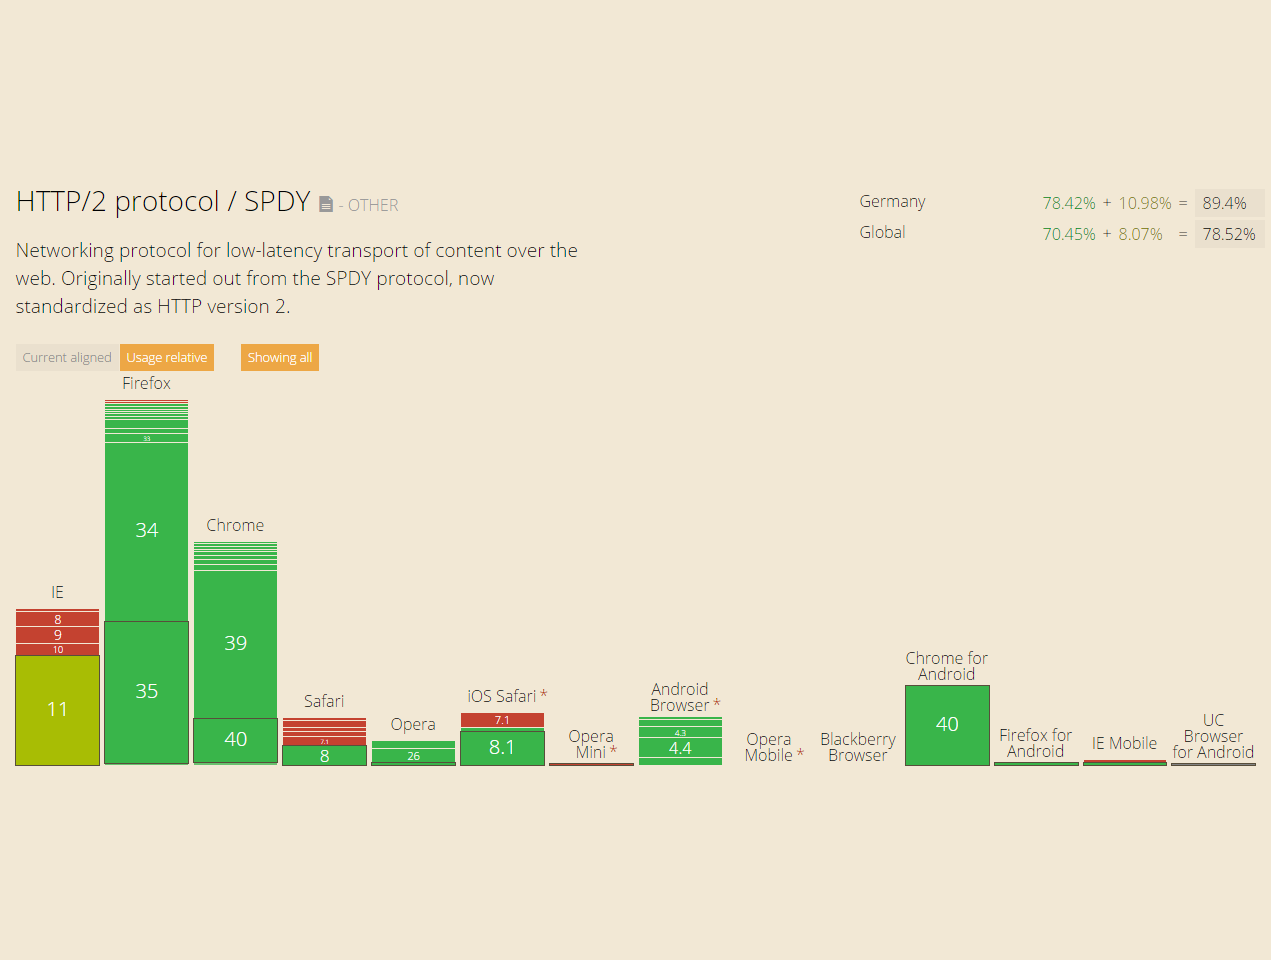
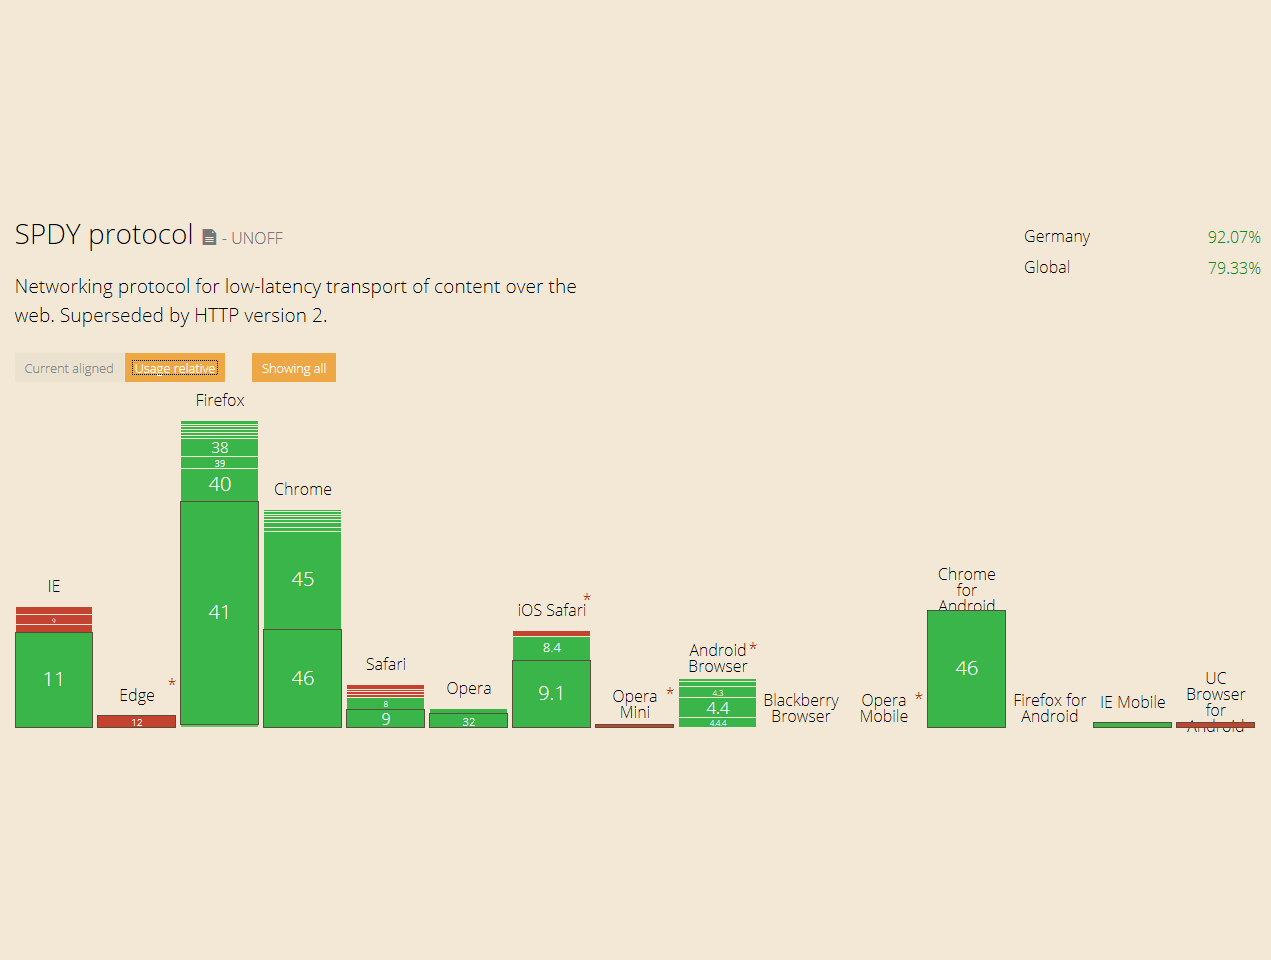
- Updated facts

diff --git a/css/extra-styles.css b/css/extra-styles.css
@@ -27,7 +27,8 @@ html.inverted .reveal h1, html.inverted .reveal h2, html.inverted .reveal h3, ht
 }
 .reveal pre code {
   max-height: 700px;
-  filter: none;
+  -webkit-filter: none;
+          filter: none;
   text-shadow: none;
   box-shadow: inset 0 0 0 2px #666666, 0 0 4px 1px rgba(0, 0, 0, 0.5);
 }
@@ -36,7 +37,8 @@ html.faded .reveal .backgrounds {
   background-blend-mode: multiply;
 }
 html.grayscaled .reveal .backgrounds {
-  filter: greyscale(1);
+  -webkit-filter: greyscale(1);
+          filter: greyscale(1);
 }
 .reveal .right {
   margin-left: 33%;
@@ -49,7 +51,14 @@ html.grayscaled .reveal .backgrounds {
   border: none;
   background: transparent;
   box-shadow: none;
-  filter: drop-shadow(0 0 1px #cccccc) drop-shadow(0 0 10px white);
+  -webkit-filter: drop-shadow(0 0 1px #cccccc) drop-shadow(0 0 10px white);
+          filter: drop-shadow(0 0 1px #cccccc) drop-shadow(0 0 10px white);
+}
+.reveal section img[alt="PHP.RUHR 2015"],
+.reveal section video[alt="PHP.RUHR 2015"] {
+  -webkit-filter: drop-shadow(0 0 10px black);
+          filter: drop-shadow(0 0 10px black);
+  opacity: 0.75;
 }
 .reveal li {
   margin-bottom: 1rem;
@@ -102,10 +111,11 @@ html.grayscaled .reveal .backgrounds {
   quotes: "“" "”" "‘" "’";
   position: relative;
   margin-bottom: 1rem;
-  padding: 1rem;
+  padding: 1rem 1.5rem;
   background-color: rgba(0, 0, 0, 0.9);
   font-style: italic;
   text-align: left;
+  box-shadow: 0 0 4px rgba(255, 255, 255, 0.5);
 }
 .reveal blockquote > *:last-child {
   margin-bottom: 0;

diff --git a/scss/extra-styles.scss b/scss/extra-styles.scss
@@ -47,6 +47,11 @@ body {
 		background: transparent;
 		box-shadow: none;
 		filter: drop-shadow(0 0 1px #CCC) drop-shadow(0 0 10px #FFF);
+
+	  &[alt="PHP.RUHR 2015"] {
+		filter: drop-shadow(0 0 10px #000);
+		opacity: 0.75;
+	  }
 	}
 
 	li {
@@ -109,10 +114,11 @@ body {
 		quotes: "“" "”" "‘" "’";
 		position: relative;
 		margin-bottom: 1rem;
-		padding: 1rem;
+		padding: 1rem 1.5rem;
 		background-color: rgba(0,0,0,.9);
 		font-style: italic;
 		text-align: left;
+		box-shadow: 0 0 4px rgba(255,255,255,.5);
 
 		> *:last-child {
 			margin-bottom: 0;

diff --git a/Gruntfile.js b/Gruntfile.js
@@ -17,10 +17,10 @@ module.exports = function(grunt) {
         },
         autoprefixer: {
             options: {
-                browsers: ['last 2 version']
+                browsers: [ 'last 2 version', 'ie >= 10', 'Safari >= 7', 'iOS >= 7' ]
             },
             no_dest: {
-                src: 'css/extra-style.css'
+                src: 'css/extra-styles.css'
             }
         },
         watch: {

diff --git a/markdown/http2.md b/markdown/http2.md
@@ -186,7 +186,7 @@ Durch Pipelining werden Latenzen zwischen den Requests einer TCP-Verbindung nich
 ---
 <!-- .slide: data-background="images/backgrounds/website-2014.png" data-state="inverted" -->
 
-# Webseite 2014
+# Webseite heute
 ---
 <!-- .slide: data-background="images/backgrounds/website-2014.png" data-state="inverted faded" -->
 
@@ -530,7 +530,7 @@ Der Browser kann so Ressourcen mit verschiedenen Prios anfordern:
 
 ## Prioritized Streams
 
-Ebenso kann der Server Ressoucen, die er für relevant hält, mit höherer Priorität durch die Leitung drücken.
+Ebenso kann der Server Ressourcen, die er für relevant hält, mit höherer Priorität durch die Leitung drücken.
 
 <p class="fragment">Das nennt sich dann "Server Push".</p>
 ---
@@ -581,15 +581,25 @@ Upgrade: HTTP/2.0
 ```
 <p class="fragment">(Anwendungsszenario: Server-zu-Server-Kommunikation)</p>
 ---
+<!-- .slide: data-background="images/backgrounds/shutterstock_334616300.jpg" data-state="inverted faded" -->
+
 # Serverseitige Vorteile
 
 > SPDY clients consume one Apache worker instead of six
 
 [Quelle](http://www.neotys.com/blog/performance-of-spdy-enabled-web-servers/)
 ---
-<!-- .slide: data-state="smaller" -->
+<!-- .slide: data-background="images/backgrounds/shutterstock_334616300.jpg" data-state="inverted faded" -->
 
 # Benchmark
+
+> Ramp-up from 1 to 1000 users for 20 minutes.<br>1 page call, wait for 5s, restart.
+
+[Quelle](http://www.neotys.com/blog/performance-of-spdy-enabled-web-servers/)
+---
+<!-- .slide: data-state="smaller" -->
+
+# Ergebnisse
 
 |                                                         | HTTP                                     | HTTPS                                    |SPDY                                     |
 |---------------------------------------------------------|------------------------------------------|------------------------------------------|-----------------------------------------|
@@ -600,7 +610,6 @@ Upgrade: HTTP/2.0
 | Response @ 777 users                                    | 70.2s                                    | 72s                                      | 2.7s                                    |
 | First error                                             | 405 Users                                | 225 Users                                | 884 Users                               |
 
-[Quelle](http://www.neotys.com/blog/performance-of-spdy-enabled-web-servers/)
 ---
 # Speicherverbrauch
 
@@ -610,48 +619,79 @@ Upgrade: HTTP/2.0
 | HTTPS         | 3,500 MB | 3,579 MB | 79 MB                        |
 | SPDY          | 3,607 MB | 3,631 MB | 24 MB                        |
 
-[Quelle](http://www.neotys.com/blog/performance-of-spdy-enabled-web-servers/)
 ---
-# CPU-Auslastung
-
-Idle-Time:
+# CPU Idle-Time
 
 ![CPU Idle Times](images/spdy-linux-cpu-idle.png)
 
-[Quelle](http://www.neotys.com/blog/performance-of-spdy-enabled-web-servers/){.stretch}
----
-# Browsersupport Desktop
+(weniger ist besser)
 
-| ![Chrome](images/browserlogos/chrome.png) | ![Safari](images/browserlogos/safari.png) | ![Firefox](images/browserlogos/firefox.png) | ![IE](images/browserlogos/ie.png) |
-| ------------- | ------------- | ------------- | ------------- | ------------- |
-| &#10004; | 8+ | &#10004; | 11+* |
+---
+#  SPDY Support Desktop
+
+| ![Chrome](images/browserlogos/chrome.png) | ![Safari](images/browserlogos/safari.png) | ![Firefox](images/browserlogos/firefox.png) | ![IE](images/browserlogos/ie.png) | ![Edge](images/browserlogos/edge.png) |
+| ------------- | ------------- | ------------- | ------------- | ------------- | ------------- |
+| &#10004; | 8+ | &#10004; | 11+* | &#10008;
 
 *= nur IE11 auf Windows 8+
 
 [Can I Use](http://caniuse.com/spdy)
 ---
-# Browsersupport Mobile
+# SPDY Support Mobile
 
 | ![Android](images/browserlogos/android.png) | ![Chrome](images/browserlogos/chrome.png) | ![Safari](images/browserlogos/ios.png) | ![Firefox](images/browserlogos/firefox.png) | ![IE](images/browserlogos/ie.png) |
 | ------------- | ------------- | ------------- | ------------- | ------------- |
-| 3+ | 33+ | 8+ | 24+ | 11+ (WP8.1) |
+| 3+ | &#10004; | 8+ | &#10004; | 11+ (WP8.1) |
 
 [Can I Use](http://caniuse.com/spdy)
 ---
 <!-- .slide: data-background="images/Caniuse-SPDY.png" data-state="inverted" -->
 
-# Weltweit: 78.52% Support
+# Weltweit: 
+# 79.33% SPDY Support
 ---
 <!-- .slide: data-background="images/Caniuse-SPDY.png" data-state="inverted" -->
 
-# Deutschland: 89.40% Support
+# Deutschland: 
+# 92.07% SPDY Support
+---
+#  HTTP/2 Support Desktop
+
+| ![Chrome](images/browserlogos/chrome.png) | ![Safari](images/browserlogos/safari.png) | ![Firefox](images/browserlogos/firefox.png) | ![IE](images/browserlogos/ie.png) | ![Edge](images/browserlogos/edge.png) |
+| ------------- | ------------- | ------------- | ------------- | ------------- | ------------- |
+| &#10004; | 9+ | &#10004; | 11* | &#10004;
+
+*= nur IE11 auf Windows 10
+
+[Can I Use](http://caniuse.com/http2)
+---
+# HTTP/2 Support Mobile
+
+| ![Android](images/browserlogos/android.png) | ![Chrome](images/browserlogos/chrome.png) | ![Safari](images/browserlogos/ios.png) | ![Firefox](images/browserlogos/firefox.png) | ![IE](images/browserlogos/ie.png) |
+| ------------- | ------------- | ------------- | ------------- | ------------- |
+| &#10008; | &#10004; | 9.1+ | &#10004; | 11+ (WP8.1) |
+
+[Can I Use](http://caniuse.com/http2)
+---
+<!-- .slide: data-background="images/Caniuse-HTTP2.png" data-state="inverted" -->
+
+# Weltweit: 
+# 67.89% HTTP/2 Support
+---
+<!-- .slide: data-background="images/Caniuse-HTTP2.png" data-state="inverted" -->
+
+# Deutschland: 
+# 81.87% HTTP/2 Support
 ---
 # Serverseitige Unterstützung
 
-* [mod_spdy](https://developers.google.com/speed/spdy/mod_spdy/) für Apache (bald in 2.4.NEXT integriert)
+* [mod_spdy](https://developers.google.com/speed/spdy/mod_spdy/) für Apache
+* [mod_h2](https://github.com/icing/mod_h2) für Apache (ab 2.4.17 integriert)
 * [ngx_http_spdy_module](http://nginx.org/en/docs/http/ngx_http_spdy_module.html) für NGINX
+* HTTP/2 in NGINX Plus R7 integriert
 * [Eingebautes SPDY](http://wiki.eclipse.org/Jetty/Feature/SPDY) in Jetty (ab 7.6.2)
-* Eingebautes SPDY in OpenLiteSpeed (ab 1.2.7)
+* SPDY in OpenLiteSpeed integriert (ab 1.2.7)
+* HTTP/2 in IIS auf Windows 10 und Windows Server 2016 integriert
 
 ---
 <!-- .slide: data-background="images/backgrounds/5261568726_d51149d62c_b.jpg" data-state="inverted faded" -->
@@ -678,8 +718,9 @@ Idle-Time:
 
 <br><br><br><br>
 <br><br><br><br>
-<br><br><br><br>
+<br><br><br>
 # Ab jetzt HTTP/2 nutzen!
+<p class="fragment">(ggf. erst mit SPDY einsteigen, später auf HTTP/2 umstellen)</p>
 ---
 <!-- .slide: data-background="images/backgrounds/shutterstock_201459827.png" data-state="inverted faded" -->
 

diff --git a/markdown/intro.md b/markdown/intro.md
@@ -1,5 +1,9 @@
 <!-- .slide: data-background="images/backgrounds/shutterstock_150137660.jpg" data-state="inverted" -->
 
+![PHP.RUHR 2015](images/phpruhr_logo_2015.png)
+
 # HTTP/2
 
 Die Zukunft beginnt jetzt.
+
+<br><br><br>
